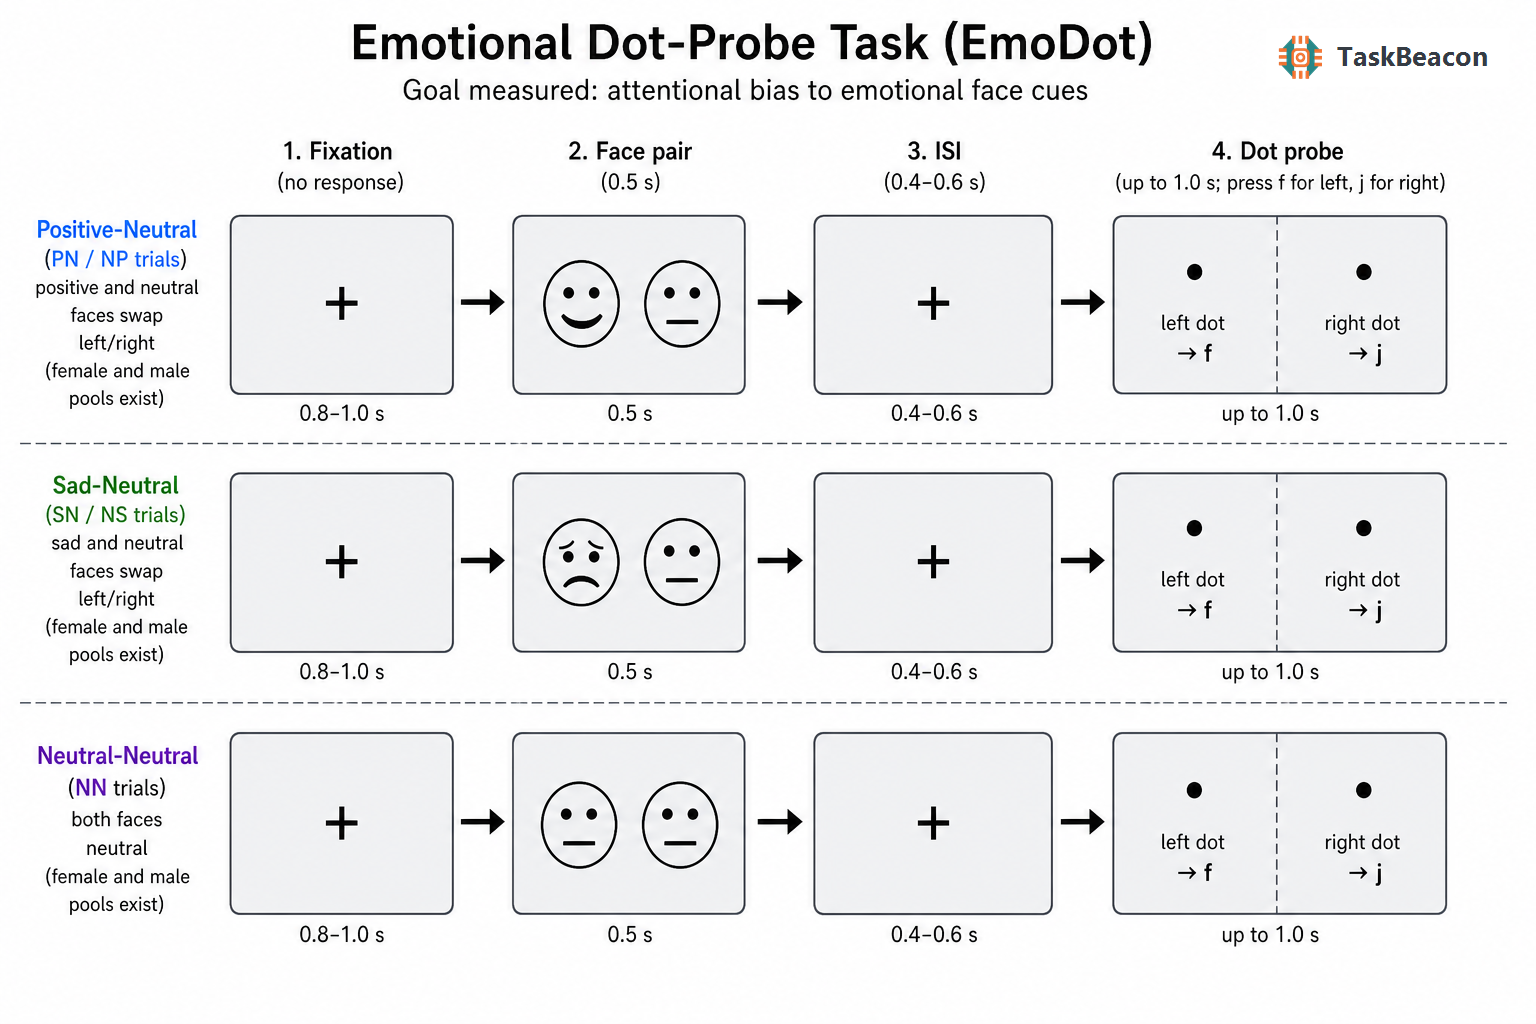
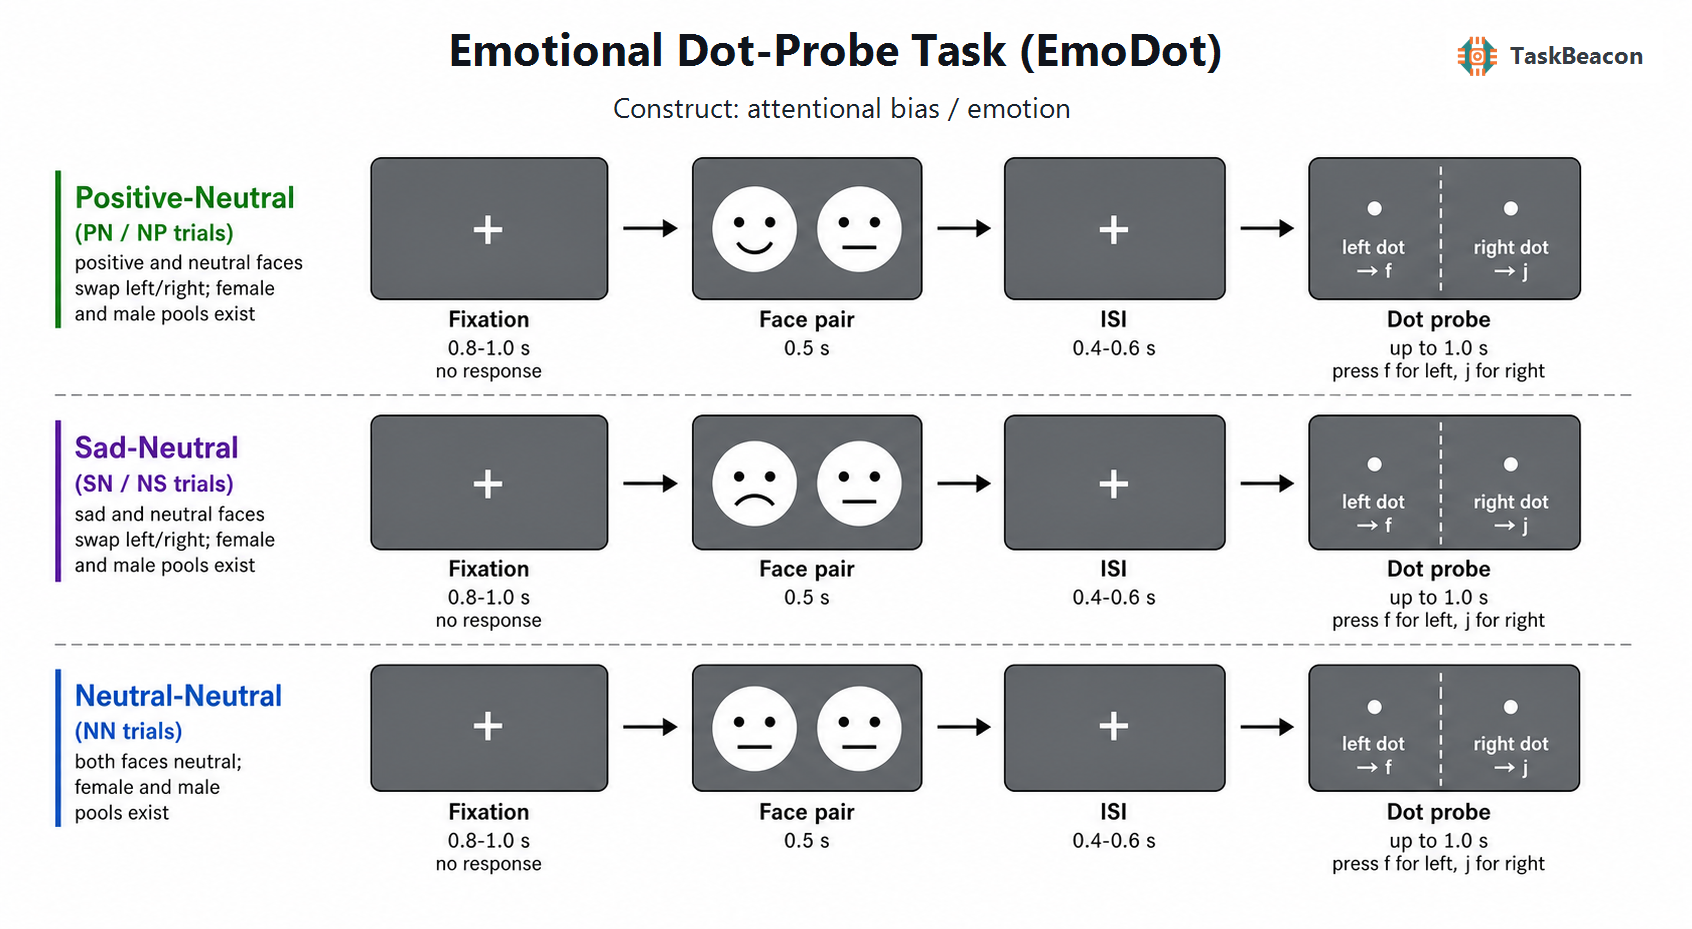
Update task flow diagram style

diff --git a/references/task_plot_brief.md b/references/task_plot_brief.md
@@ -1,33 +1,41 @@
 # Task Plot Brief
 
-Task: Emotional Dot-Probe Task (EmoDot)
+## Evidence Sources
 
-Goal measured: attentional bias to emotional face cues.
+- `README.md`
+- `main.py`
+- `config/config.yaml`
+- `src/run_trial.py`
+- `src/utils.py`
 
-Primary evidence:
-- `README.md`: task overview, flow, timing, and response mapping.
-- `config/config.yaml`: condition list, stimuli, keys, timing, and block/trial counts.
-- `src/run_trial.py`: participant-visible trial sequence and response scoring.
-- `src/utils.py`: condition token decoding into face-pair emotion order, gender pool, and target side.
+## Header
 
-Conditions:
-- Positive-neutral face pair: `PN` / `NP`; positive face can appear left or right, neutral face on the other side.
-- Sad-neutral face pair: `SN` / `NS`; sad face can appear left or right, neutral face on the other side.
-- Neutral-neutral face pair: `NN`; neutral faces appear on both sides as a control condition.
-- Gender pools are female (`F`) and male (`M`) variants.
-- Probe side is encoded by `L` or `R`; left probe uses key `f`, right probe uses key `j`.
+- Title: Emotional Dot-Probe Task (EmoDot)
+- Construct: attentional bias / emotion
 
-Trial phases:
-- Fixation: `+`, jittered 0.8-1.0 s.
-- Face pair preview: two schematic faces shown left and right, 0.5 s.
-- Inter-stimulus interval: `+`, jittered 0.4-0.6 s.
-- Dot probe response: white dot/circle appears left or right, up to 1.0 s; press `f` for left, `j` for right.
+## Participant-Visible Flow
 
-Block context:
-- Human profile: 3 blocks, 60 trials per block, 180 trials total.
-- Conditions span 20 tokens across emotion order, gender pool, and probe side.
+- Participants see fixation, a face pair, a fixation interval, then a dot probe.
+- Probe side determines response key: `f` for left dot and `j` for right dot.
+- Emotion-pair variants include positive-neutral, sad-neutral, and neutral-neutral trials.
+- Face side and gender pool vary by condition token.
 
-Image simplification:
-- Use three representative rows: Positive-Neutral, Sad-Neutral, Neutral-Neutral.
-- Show left/right probe variants inside the final probe-response screen rather than drawing every condition token.
-- Use schematic face icons, not realistic or copyrighted faces.
+## Rows
+
+- Positive-Neutral: representative PN / NP trials; positive and neutral faces swap left/right.
+- Sad-Neutral: representative SN / NS trials; sad and neutral faces swap left/right.
+- Neutral-Neutral: representative NN trials; both faces are neutral.
+
+## Timings
+
+- Fixation: 0.8-1.0 s.
+- Face pair: 0.5 s.
+- Inter-stimulus interval: 0.4-0.6 s.
+- Dot probe response window: up to 1.0 s.
+
+## Rendering Notes
+
+- Use schematic face icons only, not realistic people or source photos.
+- Show left/right probe mapping in the final screen.
+- The generated raw image must contain only timeline content below a blank header band.
+- The final title, `Construct: attentional bias / emotion` subtitle, and TaskBeacon logo are added by post-processing.

diff --git a/references/task_plot_review.md b/references/task_plot_review.md
@@ -2,28 +2,24 @@
 
 Review checklist source: `E:/Taskbeacon/skills/task-plot/references/review_checklist.md`.
 
-Generated image:
-- `E:/Taskbeacon/T000003-emodot/task_flow.png`
-
 ## Evidence Match
 
-- Pass: task is labeled as Emotional Dot-Probe Task (EmoDot).
-- Pass: representative rows cover the configured emotion-pair families: Positive-Neutral (`PN` / `NP`), Sad-Neutral (`SN` / `NS`), and Neutral-Neutral (`NN`).
-- Pass: row notes preserve the female/male gender-pool variants without expanding all 20 condition tokens.
-- Pass: phase order matches `src/run_trial.py`: fixation, face-pair preview, inter-stimulus interval, dot-probe response.
-- Pass: timing labels match config: 0.8-1.0 s fixation, 0.5 s face pair, 0.4-0.6 s ISI, and up to 1.0 s probe response.
-- Pass: response mapping is correct: left dot uses `f`, right dot uses `j`.
+- Pass: task name matches `Emotional Dot-Probe Task (EmoDot)`.
+- Pass: rows match representative Positive-Neutral, Sad-Neutral, and Neutral-Neutral trial families.
+- Pass: phase order matches `src/run_trial.py`: fixation, face pair, ISI, dot probe response.
+- Pass: timing labels match config: 0.8-1.0 s fixation, 0.5 s face pair, 0.4-0.6 s ISI, up to 1.0 s probe.
+- Pass: response mapping is correct: `f` for left dot and `j` for right dot.
 
 ## Visual Quality
 
-- Pass: text is readable at normal preview size.
-- Pass: rows and arrows clearly show temporal order.
-- Pass: schematic face icons are used instead of realistic or copyrighted face photos.
-- Pass: gray screen boxes, row separators, and restrained condition colors match the TaskBeacon figure style.
-- Pass: the image model did not generate its own logo, watermark, or brand text.
-- Pass: the fixed TaskBeacon logo lockup was applied in post-processing and appears borderless in the top-right corner without overlapping timeline content.
-- Pass: README embeds `![Task Flow](task_flow.png)` under `## 2. Task Flow`.
+- Pass: fixed title and `Construct: attentional bias / emotion` subtitle are centered in the header.
+- Pass: fixed TaskBeacon logo lockup is borderless in the top-right corner and does not overlap content.
+- Pass: face stimuli are schematic icons rather than realistic people or photos.
+- Pass: text is readable and no generated extra title, subtitle, logo, watermark, people, or devices are present.
+- Pass: `references/task_plot_timeline_raw.png` preserves the generated timeline before header/logo post-processing.
 
-## Decision
+## README Embed
 
-Accepted first generation from the upgraded `task-plot` skill template and fixed logo overlay workflow. No regeneration required.
+- Pass: `README.md` contains `## 2. Task Flow`.
+- Pass: the first image under `## 2. Task Flow` is exactly `![Task Flow](task_flow.png)`.
+- Pass: final image is saved at the task root as `task_flow.png`.

diff --git a/references/task_plot_prompt.md b/references/task_plot_prompt.md
@@ -3,7 +3,7 @@ Asset type: TaskBeacon task flow diagram
 Primary request: Create a clean, publication-ready task flow diagram as a timeline collection for the behavioral task described below.
 
 Task: Emotional Dot-Probe Task (EmoDot)
-Goal measured: attentional bias to emotional face cues
+Construct: attentional bias / emotion
 Rows/conditions:
 - Positive-Neutral: representative PN / NP trials; positive and neutral faces swap left/right; female and male pools exist
 - Sad-Neutral: representative SN / NS trials; sad and neutral faces swap left/right; female and male pools exist
@@ -26,17 +26,18 @@ Visual requirements:
 - Place condition labels at the left of each row.
 - Use short labels only; avoid paragraphs inside the image.
 - Make all text legible at normal document preview size.
-- Leave clean whitespace in the top-right corner for a fixed TaskBeacon logo lockup that will be added after generation.
+- Leave a clean blank header band across the top 15-18% of the image. This band is reserved for a fixed title, `Construct: ...` subtitle, and TaskBeacon logo lockup that will be added after generation.
 
 Accuracy constraints:
 - Do not invent phases, stimuli, condition names, keys, rewards, feedback, or timings.
 - Do not add people, lab equipment, decorative scenes, logos, or unrelated icons.
-- Do not draw any logo, watermark, brand mark, or `TaskBeacon` text inside the generated image.
+- Do not draw the task title, construct subtitle, any logo, watermark, brand mark, or `TaskBeacon` text inside the generated image.
+- Draw only the timeline content below the blank header band.
 - If a detail is unknown, omit it rather than guessing.
 - Preserve these exact terms where used: EmoDot, Positive-Neutral, Sad-Neutral, Neutral-Neutral, PN, NP, SN, NS, NN, +, 0.8-1.0 s, 0.5 s, 0.4-0.6 s, 1.0 s, f, j, left dot, right dot.
 - Show `f` only for left dot and `j` only for right dot.
 
 Style:
-TaskBeacon scientific infographic style: clean vector-like raster image, organized spacing, gray screen boxes, restrained color accents, and a blank top-right logo-safe area.
+TaskBeacon scientific infographic style: clean vector-like raster image, organized spacing, gray screen boxes, restrained color accents, and a blank header-safe area.
 
 Collapse equivalent conditions into representative rows and show variants as small parenthetical notes in the row label.